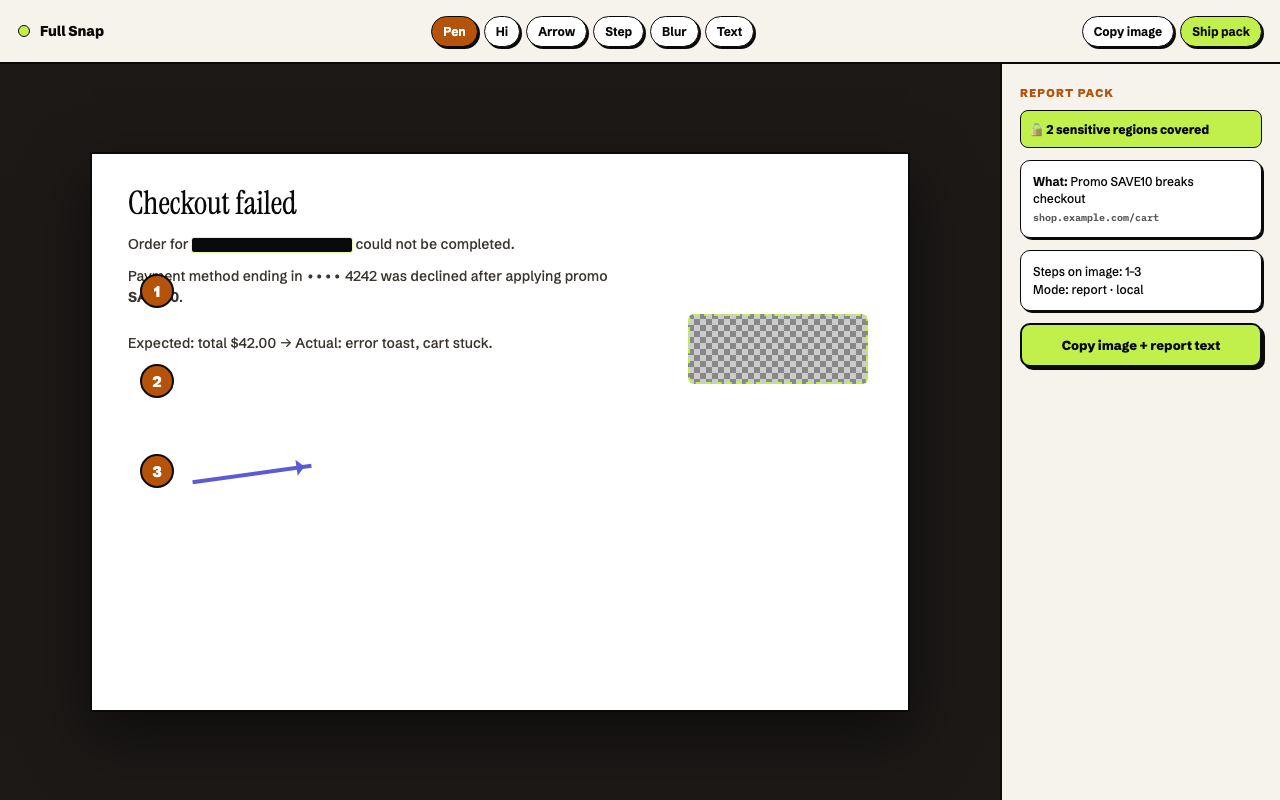
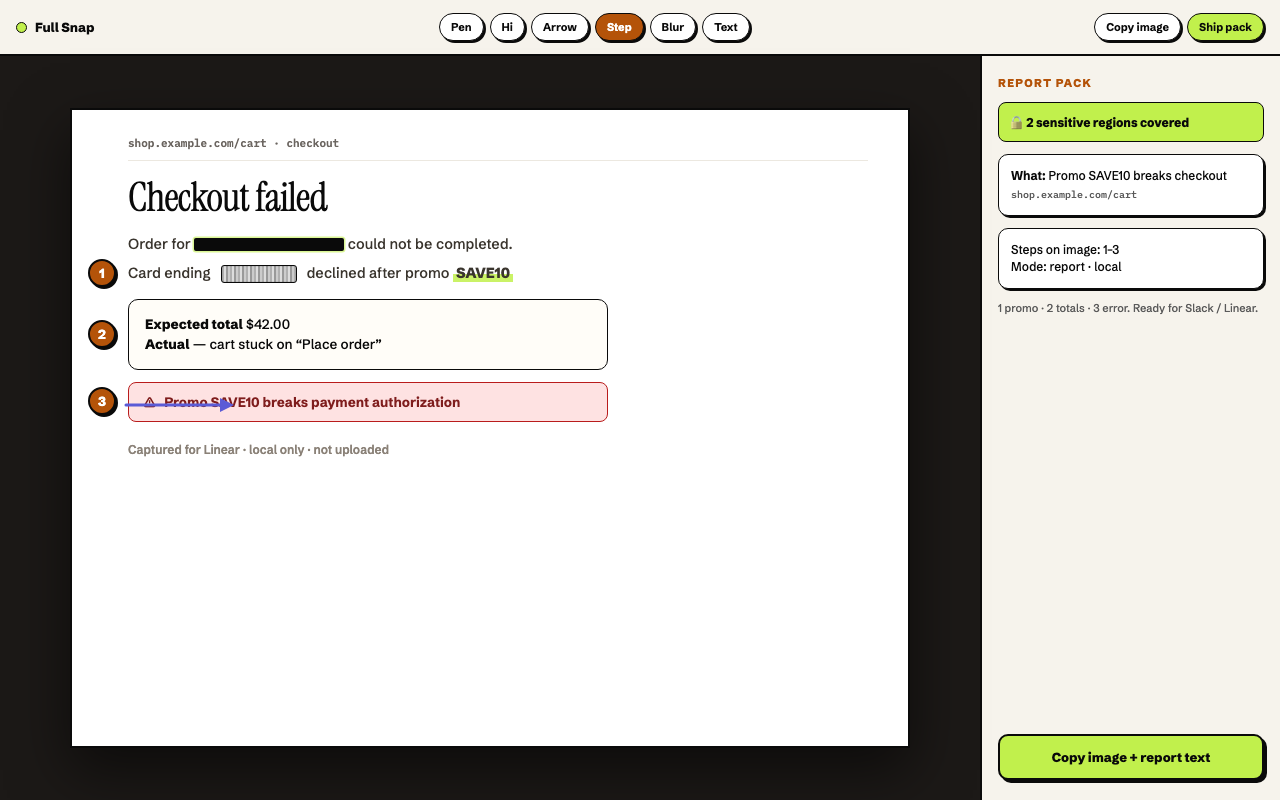
Fix Full Snap store screenshot-2 composition.
Replace broken orphan steps and floating blur with a dense checkout demo: redacted email, pixelated card digits, numbered steps on real targets, and a clear ship-pack rail.

Changed region(s): [[0.0312, 0.125, 0.7188, 0.9375], [0.0, 0.0, 1.0, 1.0], [0.5312, 0.375, 0.6875, 0.5]]

diff --git a/store-assets/src/screenshot-2.html b/store-assets/src/screenshot-2.html
@@ -1,78 +1,205 @@
 <!doctype html>
 <html><head><meta charset="utf-8">
-<link href="https://fonts.googleapis.com/css2?family=Instrument+Serif:ital@0;1&family=Schibsted+Grotesk:wght@500;600;700;800&family=IBM+Plex+Mono:wght@600;700&display=swap" rel="stylesheet">
+<link href="https://fonts.googleapis.com/css2?family=Instrument+Serif:ital@0;1&family=Schibsted+Grotesk:wght@500;600;700;800&family=IBM+Plex+Mono:wght@500;600;700&display=swap" rel="stylesheet">
 <style>
   *{margin:0;padding:0;box-sizing:border-box}
-  body{width:1280px;height:800px;overflow:hidden;font-family:"Schibsted Grotesk",system-ui,sans-serif;background:#1c1917;color:#0a0a0a}
-  .bar{height:64px;background:#f6f3ec;border-bottom:2px solid #0a0a0a;display:flex;align-items:center;
-    justify-content:space-between;padding:0 18px;gap:10px}
-  .brand{display:flex;align-items:center;gap:10px;font-weight:800;font-size:14px}
-  .dot{width:12px;height:12px;border-radius:50%;background:#c1f04c;border:1.5px solid #0a0a0a}
-  .tools{display:flex;gap:6px;flex-wrap:wrap}
-  .t{border:1.5px solid #0a0a0a;background:#fff;border-radius:999px;padding:7px 11px;font-size:12px;font-weight:700;
-    box-shadow:2px 2px 0 #0a0a0a}
+  body{
+    width:1280px;height:800px;overflow:hidden;
+    font-family:"Schibsted Grotesk",system-ui,sans-serif;
+    background:#1c1917;color:#0a0a0a;
+  }
+  .bar{
+    height:56px;background:#f6f3ec;border-bottom:2px solid #0a0a0a;
+    display:flex;align-items:center;justify-content:space-between;padding:0 16px;
+  }
+  .brand{display:flex;align-items:center;gap:8px;font-weight:800;font-size:13px}
+  .dot{width:11px;height:11px;border-radius:50%;background:#c1f04c;border:1.5px solid #0a0a0a}
+  .tools{display:flex;gap:6px;align-items:center}
+  .t{
+    border:1.5px solid #0a0a0a;background:#fff;border-radius:999px;
+    padding:6px 11px;font-size:11px;font-weight:700;box-shadow:2px 2px 0 #0a0a0a;
+  }
   .t.on{background:#b45309;color:#fff}
   .t.ship{background:#c1f04c}
-  .stage{height:736px;display:grid;grid-template-columns:1fr 280px}
-  .canvas-wrap{display:flex;align-items:center;justify-content:center;padding:28px}
-  .canvas{width:820px;height:560px;background:#fff;border:2px solid #0a0a0a;box-shadow:0 24px 60px rgba(0,0,0,.5);
-    position:relative;overflow:hidden}
-  .fake-page{padding:28px 36px}
-  .fake-page h2{font-family:"Instrument Serif",serif;font-size:32px;font-weight:400;margin-bottom:10px}
-  .fake-page p{font-size:14px;line-height:1.55;color:#3a352e;margin-bottom:10px;max-width:520px}
-  .blackbar{display:inline-block;height:14px;width:160px;background:#0a0a0a;border-radius:2px;
-    vertical-align:middle;box-shadow:0 0 0 1px rgba(193,240,76,.45)}
-  .num{position:absolute;width:34px;height:34px;border-radius:50%;background:#b45309;border:2px solid #0a0a0a;
-    color:#fff;font-weight:800;display:grid;place-items:center;font-size:15px}
-  .n1{left:48px;top:120px}.n2{left:48px;top:210px}.n3{left:48px;top:300px}
-  .arr{position:absolute;left:100px;top:318px;width:120px;height:4px;background:#5b5bd6;transform:rotate(-8deg)}
-  .arr:after{content:"";position:absolute;right:-1px;top:-6px;border:8px solid transparent;border-left-color:#5b5bd6}
-  .blur{position:absolute;right:40px;top:160px;width:180px;height:70px;
-    background:repeating-conic-gradient(#888 0% 25%,#ccc 0% 50%) 50%/12px 12px;border:2px dashed #c1f04c;border-radius:6px}
-  .rail{background:#f6f3ec;border-left:2px solid #0a0a0a;padding:22px 18px}
-  .rail h3{font-size:11px;letter-spacing:.12em;text-transform:uppercase;font-weight:800;color:#b45309;margin-bottom:10px}
-  .rail .box{border:1.5px solid #0a0a0a;background:#fff;border-radius:10px;padding:12px;font-size:12px;
-    line-height:1.45;margin-bottom:12px;box-shadow:2px 2px 0 #0a0a0a}
-  .rail .lime{background:#c1f04c;font-weight:800;border:1.5px solid #0a0a0a;border-radius:8px;padding:8px;font-size:12px;margin-bottom:12px}
-  .rail .cta{width:100%;text-align:center;background:#c1f04c;border:2px solid #0a0a0a;border-radius:10px;
-    padding:12px;font-weight:800;box-shadow:3px 3px 0 #0a0a0a;font-size:13px}
-  .mono{font-family:"IBM Plex Mono",monospace;font-size:10px;color:#5a5a5a}
+
+  .stage{height:744px;display:grid;grid-template-columns:minmax(0,1fr) 300px}
+  .canvas-wrap{
+    display:flex;align-items:center;justify-content:center;
+    padding:32px;background:#1c1917;
+  }
+  .canvas{
+    width:840px;height:640px;background:#fff;
+    border:2px solid #0a0a0a;
+    box-shadow:0 22px 55px rgba(0,0,0,.55);
+    position:relative;overflow:hidden;
+    display:flex;flex-direction:column;
+  }
+  .page{padding:26px 40px 28px 56px;flex:1;position:relative}
+
+  .url{
+    font-family:"IBM Plex Mono",monospace;font-size:11px;font-weight:600;color:#6b6560;
+    margin-bottom:16px;padding-bottom:10px;border-bottom:1px solid #ece8e0;
+  }
+  h1{
+    font-family:"Instrument Serif",Georgia,serif;font-weight:400;
+    font-size:40px;letter-spacing:-.02em;line-height:1;margin-bottom:16px;
+  }
+
+  .block{margin-bottom:14px;max-width:560px}
+  .block p{font-size:14.5px;line-height:1.55;color:#3a352e;margin:0 0 8px}
+
+  .redact{
+    display:inline-block;height:13px;width:150px;background:#0a0a0a;
+    border-radius:2px;vertical-align:-2px;
+    box-shadow:0 0 0 1.5px rgba(193,240,76,.6);
+  }
+  .hi{
+    background:linear-gradient(transparent 58%, rgba(193,240,76,.85) 58%);
+    font-weight:800;padding:0 3px;
+  }
+
+  /* payment row with blur over last4 */
+  .pay-row{
+    display:flex;align-items:center;gap:10px;flex-wrap:wrap;
+    font-size:14.5px;line-height:1.5;color:#3a352e;margin-bottom:8px;
+  }
+  .blur{
+    display:inline-block;width:76px;height:18px;vertical-align:middle;
+    border-radius:3px;border:1.5px solid #0a0a0a;
+    background:
+      linear-gradient(90deg, #b0b0b0 0 25%, #ddd 25% 50%, #999 50% 75%, #ccc 75%),
+      linear-gradient(#a3a3a3,#d4d4d4);
+    background-size:8px 100%, 100% 100%;
+    box-shadow:inset 0 0 0 1px rgba(0,0,0,.08);
+  }
+
+  .card{
+    margin-top:8px;margin-bottom:12px;padding:14px 16px;
+    border:1.5px solid #0a0a0a;border-radius:10px;background:#fffdf8;
+    max-width:480px;font-size:13.5px;line-height:1.5;
+  }
+  .card strong{font-weight:800}
+  .err{
+    max-width:480px;padding:11px 14px;border-radius:8px;
+    background:#fee2e2;border:1.5px solid #b91c1c;color:#7f1d1d;
+    font-size:13.5px;font-weight:700;display:flex;align-items:center;gap:8px;
+  }
+  .foot{
+    margin-top:20px;font-size:12px;color:#8a8177;font-weight:600;
+  }
+
+  /* steps sit left of content, clean alignment */
+  .step{
+    position:absolute;left:16px;width:28px;height:28px;border-radius:50%;
+    background:#b45309;border:2px solid #0a0a0a;color:#fff;
+    font-weight:800;font-size:13px;display:grid;place-items:center;
+    box-shadow:2px 2px 0 #0a0a0a;z-index:4;
+  }
+  .s1{top:149px}   /* promo SAVE10 */
+  .s2{top:210px}   /* totals card */
+  .s3{top:277px}   /* error toast */
+
+  /* purple arrow into the error toast */
+  .arrow{
+    position:absolute;left:52px;top:285px;z-index:3;
+    width:0;height:0;
+  }
+  .arrow svg{display:block}
+
+  .rail{
+    background:#f6f3ec;border-left:2px solid #0a0a0a;
+    padding:20px 16px;display:flex;flex-direction:column;gap:12px;
+  }
+  .rail h3{
+    font-size:11px;letter-spacing:.12em;text-transform:uppercase;
+    font-weight:800;color:#b45309;
+  }
+  .lime{
+    background:#c1f04c;border:1.5px solid #0a0a0a;border-radius:8px;
+    padding:9px 10px;font-size:12px;font-weight:800;
+  }
+  .box{
+    border:1.5px solid #0a0a0a;background:#fff;border-radius:10px;
+    padding:12px;font-size:12px;line-height:1.45;box-shadow:2px 2px 0 #0a0a0a;
+  }
+  .mono{font-family:"IBM Plex Mono",monospace;font-size:10px;color:#5a5a5a;margin-top:4px}
+  .hint{font-size:11px;color:#5a5a5a;line-height:1.45}
+  .cta{
+    margin-top:auto;width:100%;text-align:center;background:#c1f04c;
+    border:2px solid #0a0a0a;border-radius:10px;padding:13px;
+    font-weight:800;font-size:13px;box-shadow:3px 3px 0 #0a0a0a;
+  }
 </style></head>
 <body>
   <div class="bar">
     <div class="brand"><span class="dot"></span>Full Snap</div>
     <div class="tools">
-      <span class="t on">Pen</span><span class="t">Hi</span><span class="t">Arrow</span>
-      <span class="t">Step</span><span class="t">Blur</span><span class="t">Text</span>
+      <span class="t">Pen</span>
+      <span class="t">Hi</span>
+      <span class="t">Arrow</span>
+      <span class="t on">Step</span>
+      <span class="t">Blur</span>
+      <span class="t">Text</span>
     </div>
     <div class="tools">
-      <span class="t">Copy image</span><span class="t ship">Ship pack</span>
+      <span class="t">Copy image</span>
+      <span class="t ship">Ship pack</span>
     </div>
   </div>
+
   <div class="stage">
     <div class="canvas-wrap">
       <div class="canvas">
-        <div class="fake-page">
-          <h2>Checkout failed</h2>
-          <p>Order for <span class="blackbar"></span> could not be completed.</p>
-          <p>Payment method ending in •••• 4242 was declined after applying promo <strong>SAVE10</strong>.</p>
-          <p style="margin-top:24px">Expected: total $42.00 → Actual: error toast, cart stuck.</p>
+        <div class="page">
+          <div class="url">shop.example.com/cart · checkout</div>
+          <h1>Checkout failed</h1>
+
+          <div class="block">
+            <p>Order for <span class="redact"></span> could not be completed.</p>
+            <div class="pay-row">
+              <span>Card ending</span>
+              <span class="blur" title="redacted last4"></span>
+              <span>declined after promo <span class="hi">SAVE10</span></span>
+            </div>
+          </div>
+
+          <div class="card">
+            <strong>Expected total</strong> $42.00<br>
+            <strong>Actual</strong> — cart stuck on “Place order”
+          </div>
+
+          <div class="err">
+            <span>⚠</span>
+            <span>Promo SAVE10 breaks payment authorization</span>
+          </div>
+
+          <p class="foot">Captured for Linear · local only · not uploaded</p>
         </div>
-        <div class="num n1">1</div>
-        <div class="num n2">2</div>
-        <div class="num n3">3</div>
-        <div class="arr"></div>
-        <div class="blur"></div>
+
+        <div class="step s1">1</div>
+        <div class="step s2">2</div>
+        <div class="step s3">3</div>
+        <div class="arrow">
+          <svg width="120" height="20" viewBox="0 0 120 20" fill="none">
+            <path d="M2 10 H102" stroke="#5B5BD6" stroke-width="3" stroke-linecap="round"/>
+            <path d="M96 3 L110 10 L96 17" fill="#5B5BD6"/>
+          </svg>
+        </div>
       </div>
     </div>
+
     <aside class="rail">
       <h3>Report pack</h3>
       <div class="lime">🔒 2 sensitive regions covered</div>
       <div class="box">
-        <strong>What:</strong> Promo SAVE10 breaks checkout<br>
-        <span class="mono">shop.example.com/cart</span>
+        <strong>What:</strong> Promo SAVE10 breaks checkout
+        <div class="mono">shop.example.com/cart</div>
       </div>
-      <div class="box">Steps on image: 1–3<br>Mode: report · local</div>
+      <div class="box">
+        Steps on image: 1–3<br>
+        Mode: report · local
+      </div>
+      <p class="hint">1 promo · 2 totals · 3 error. Ready for Slack / Linear.</p>
       <div class="cta">Copy image + report text</div>
     </aside>
   </div>